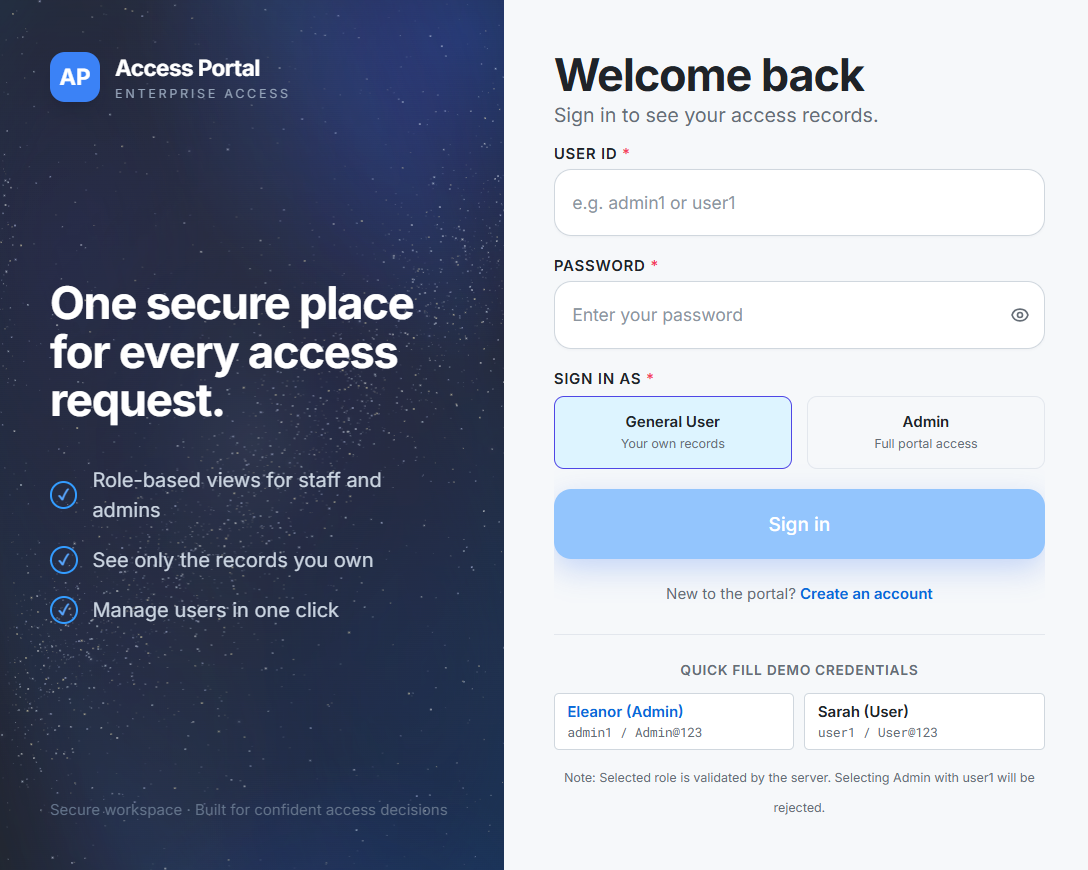
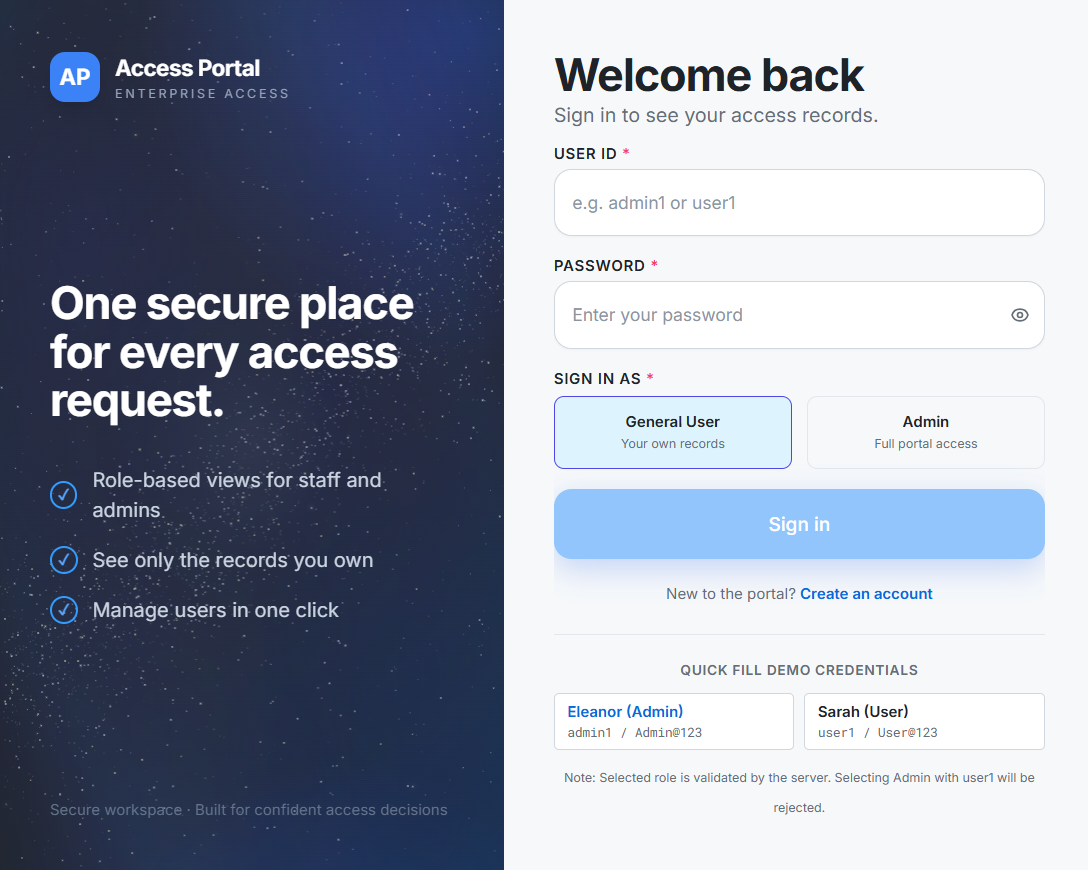
fixed Screenshorts

diff --git a/src/index.css b/src/index.css
@@ -655,7 +655,7 @@
 }
 
 .auth-form-panel .login-card {
-  max-width: 540px;
+  max-width: 600px;
   background: transparent !important;
   border: 0 !important;
   box-shadow: none !important;
